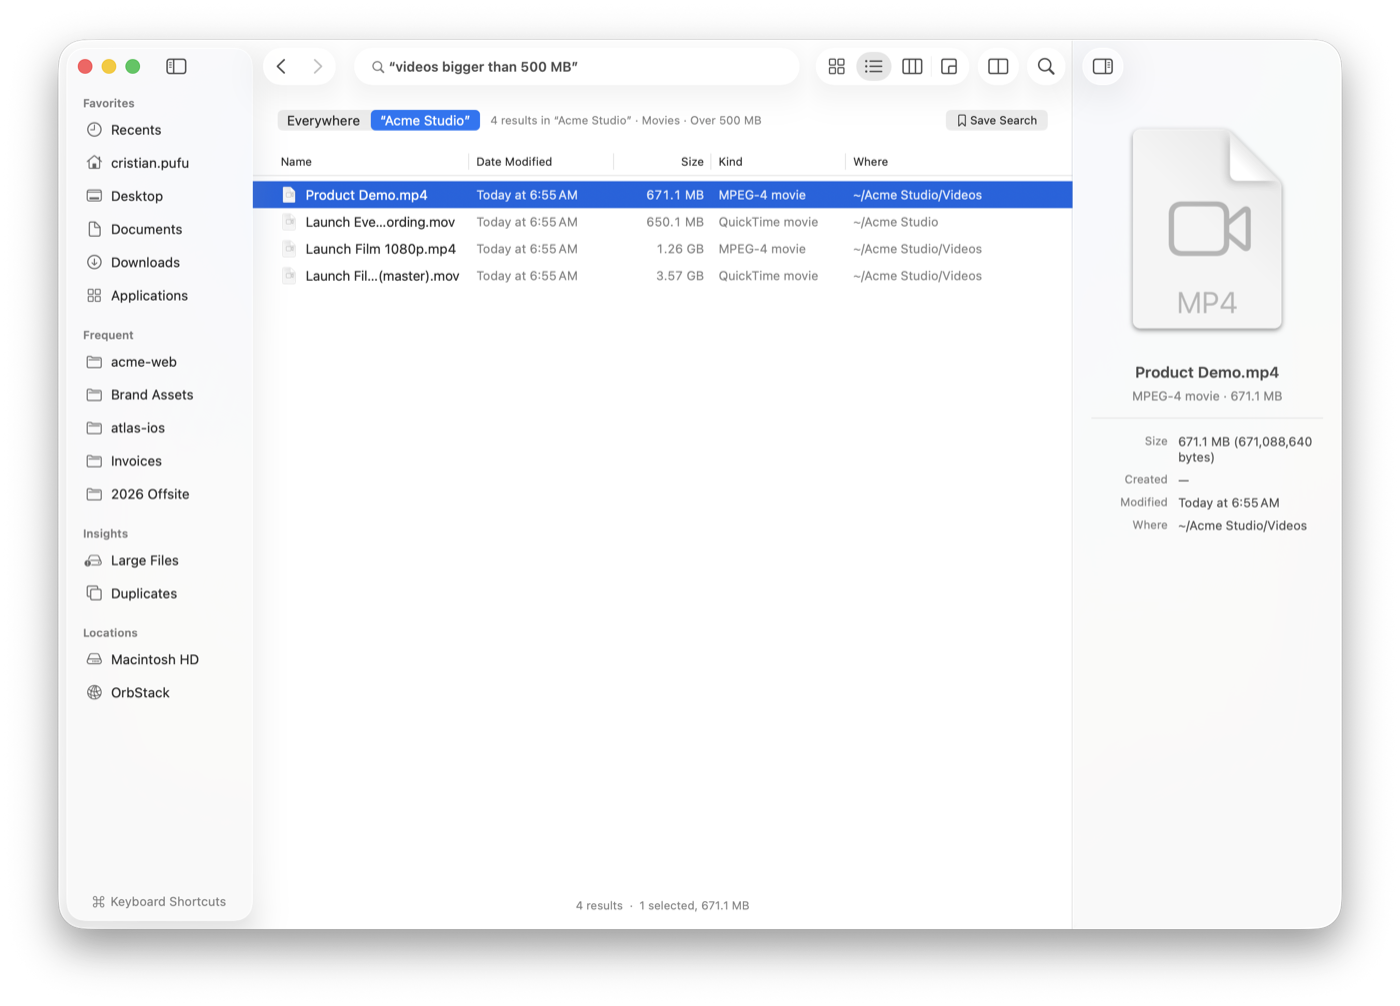
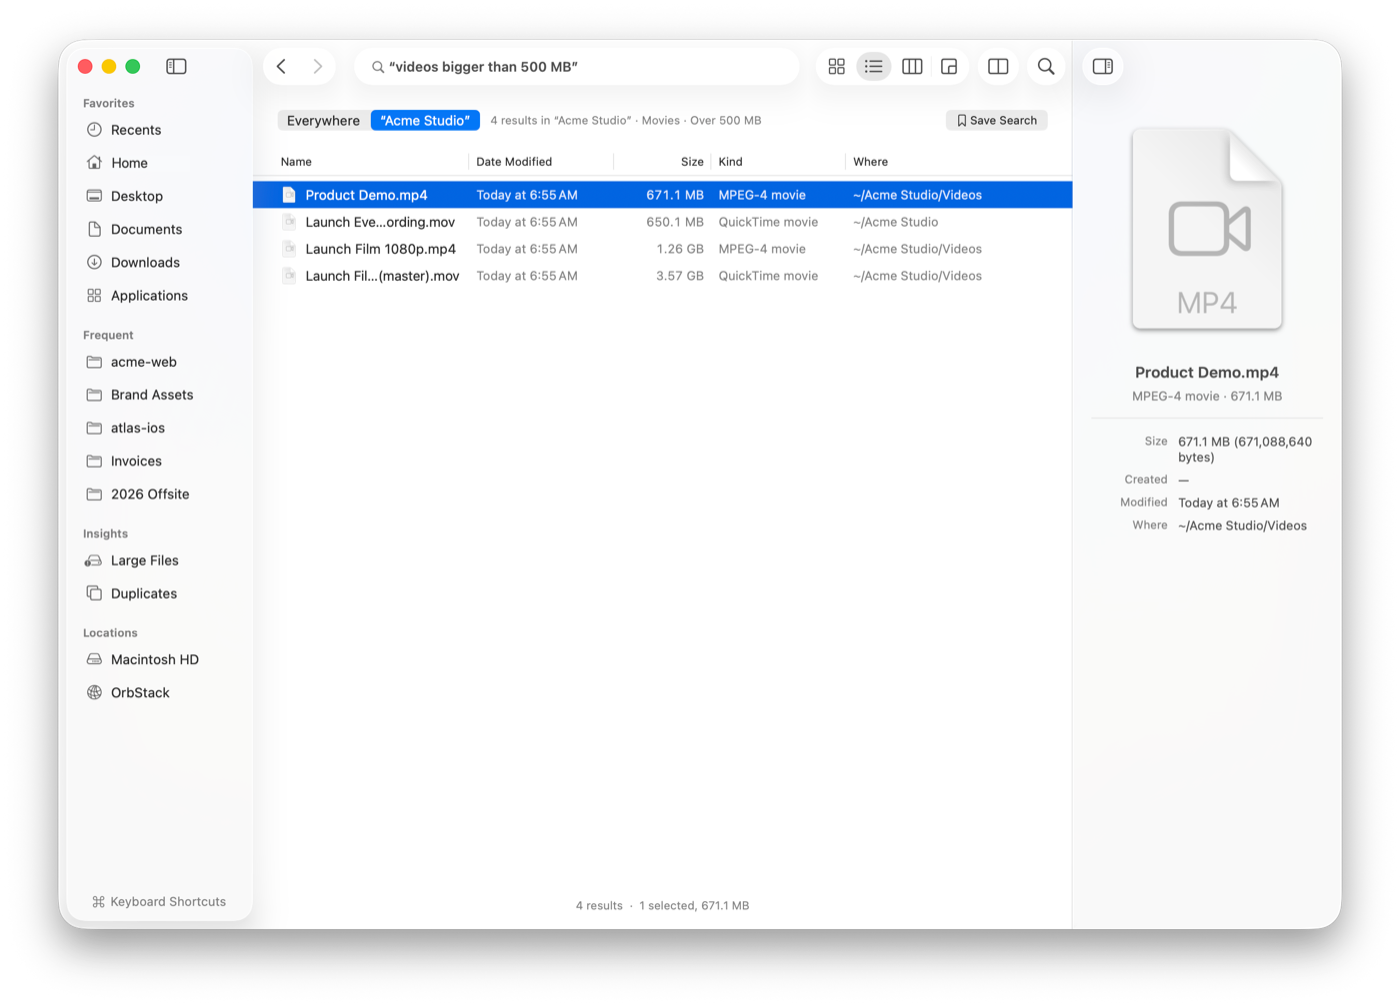
Remove the author's name from the website and screenshots
- Footer, author meta tag, structured-data author and the llms files no longer name a person.
- Screenshots: the sidebar's home-folder entry reads "Home" instead of the account name
  (redrawn in the sidebar's own font, size and color); the social preview card follows.

Changed region(s): [[0.1843, 0.0924, 0.7679, 0.2157], [0.0921, 0.1541, 0.1229, 0.1849], [0.0614, 0.0616, 0.0921, 0.0924]]

diff --git a/site/index.html b/site/index.html
@@ -7,7 +7,6 @@
   <meta name="description" content="Strata is a free, native file manager for macOS. Find any file in milliseconds, see live folder sizes and a disk usage map, and work in dual pane or from ⌘K.">
   <meta name="robots" content="index, follow, max-image-preview:large, max-snippet:-1">
   <link rel="canonical" href="https://stratafiles.app/">
-  <meta name="author" content="Cristian Pufu">
   <meta name="theme-color" content="#07060d">
   <meta name="color-scheme" content="dark">
   <meta name="apple-mobile-web-app-title" content="Strata">
@@ -80,11 +79,6 @@
       "sameAs": [
         "https://github.com/cristipufu/strata"
       ],
-      "author": {
-        "@type": "Person",
-        "name": "Cristian Pufu",
-        "url": "https://github.com/cristipufu"
-      },
       "featureList": [
         "Instant file search with plain-English queries and filters",
         "Live folder sizes",
@@ -607,7 +601,7 @@
         <a href="https://github.com/cristipufu/strata/blob/main/LICENSE">MIT License</a>
       </nav>
       <p class="footer__about">Strata Files is a fast, private file manager and Finder alternative for macOS, free and open source.</p>
-      <p class="footer__fine">© 2026 Cristian Pufu. Strata is not affiliated with Apple Inc. Mac, macOS, Finder and Apple Intelligence are trademarks of Apple Inc.</p>
+      <p class="footer__fine">© 2026 Strata Files. Strata is not affiliated with Apple Inc. Mac, macOS, Finder and Apple Intelligence are trademarks of Apple Inc.</p>
     </div>
   </footer>
 </body>
